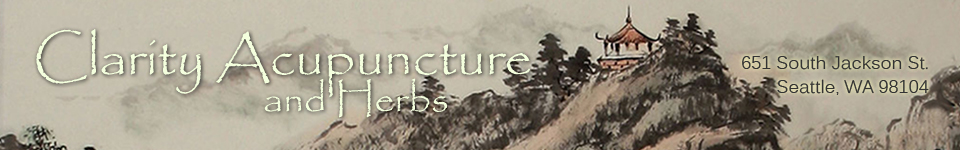
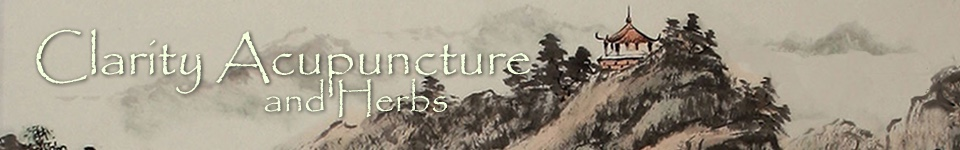
Post-moving updates to site.

Changed region(s): [[0.75, 0.3467, 0.9688, 0.48], [0.7812, 0.5067, 0.9688, 0.64]]

diff --git a/www/index.html b/www/index.html
@@ -1,20 +1,21 @@
 <!DOCTYPE html>
 <html lang="en">
+
 <head>
-<meta http-equiv="Content-Type" content="text/html; charset=utf-8" />
-<title>Clarity Acupuncture</title>
-<link rel="stylesheet" type="text/css" href="clarity.css" />
-<link rel='stylesheet' type='text/css' href='http://fonts.googleapis.com/css?family=Ubuntu:regular,bold' />
-<link rel='stylesheet' type='text/css' href='http://fonts.googleapis.com/css?family=Vollkorn:regular,italic,bold' />
-<link rel="shortcut icon" type="image/vnd.microsoft.icon" href="favicon.ico" />
-<!--[if IE]><script src="http://html5shiv.googlecode.com/svn/trunk/html5.js"></script><![endif]-->
-<!--[if lt IE 9]><script src="http://ie7-js.googlecode.com/svn/version/2.1(beta4)/IE9.js"></script><![endif]-->
+    <meta http-equiv="Content-Type" content="text/html; charset=utf-8" />
+    <title>Clarity Acupuncture</title>
+    <link rel="stylesheet" type="text/css" href="clarity.css" />
+    <link rel='stylesheet' type='text/css' href='http://fonts.googleapis.com/css?family=Ubuntu:regular,bold' />
+    <link rel='stylesheet' type='text/css' href='http://fonts.googleapis.com/css?family=Vollkorn:regular,italic,bold' />
+    <link rel="shortcut icon" type="image/vnd.microsoft.icon" href="favicon.ico" />
+    <!--[if IE]><script src="http://html5shiv.googlecode.com/svn/trunk/html5.js"></script><![endif]-->
+    <!--[if lt IE 9]><script src="http://ie7-js.googlecode.com/svn/version/2.1(beta4)/IE9.js"></script><![endif]-->
 </head>
 
 <body>
-<!-- Appointy Schedule Pop-Up --> 
-<script type="text/javascript">
-	var appointy = 'catbwanglac';
+    <!-- Appointy Schedule Pop-Up -->
+    <script type="text/javascript">
+        var appointy = 'catbwanglac';
 	var appointyHeight = '700';
 	var appointyWidth = '900';
 	var ShowSchedulemeImg = true;
@@ -26,49 +27,53 @@
 	var ScheduleMePosition = 'right';  // right, left
 	// You can also call function ShowAppointyInOverlay() onclick of any tag. 
 	// e.g. <a href="javascript:void(0)" onclick="ShowAppointyInOverlay();">Schedule with us</a>
-</script> 
-<script type="text/javascript" src="http://static.online-scheduling-software.com/widget/js/appointyOverlayGadget.js"></script> 
-<!-- End Appointy Schedule Pop-Up -->
-<div id="main-container">
-  <div id="header"> <span class="rndimgcnr" style="background-image:url(images/header4.jpg)" > <a href="index.html"><img src="images/header4.jpg" alt="Clarity Acupuncture and Herbs"></a></span> </div>
-  <div id="navigation">
-    <div class="rollover" id="home-over"> <a href="index.html">Home</a></div>
-    <div class="rollover" id="about"> <a href="about.html">About</a></div>
-    <div class="rollover" id="services"> <a href="services.html">Services</a></div>
-    <div class="rollover" id="herbs"> <a href="herbs.html">Herbs</a></div>
-    <div class="rollover" id="faq"> <a href="faq.html">FAQ</a></div>
-    <div class="rollover" id="schedule"> <a href="schedule.html">Schedule</a></div>
-    <div class="rollover" id="contact"> <a href="contact.html">Contact</a></div>
-    <div class="rollover" id="blog"> <a href="blog.html">Blog</a></div>
-  </div>
-  <div id="container">
-    <div id="side-bar-container">
-      <div id="left-bar-1"> 
-        <SCRIPT TYPE = "text/javascript">
-			var randpic = new Array ("images/rnd/ht-1.jpg", "images/rnd/ht-2.jpg", "images/rnd/ht-3.jpg", "images/rnd/ht-4.jpg", "images/rnd/ht-5.jpg", "images/rnd/ht-6.jpg");
+    </script>
+    <script type="text/javascript" src="http://static.online-scheduling-software.com/widget/js/appointyOverlayGadget.js"></script>
+    <!-- End Appointy Schedule Pop-Up -->
+    <div id="main-container">
+        <div id="header"> <span class="rndimgcnr" style="background-image:url(images/header4.jpg)"> <a href="index.html"><img src="images/header4.jpg" alt="Clarity Acupuncture and Herbs"></a></span>            </div>
+        <div id="navigation">
+            <div class="rollover" id="home-over"> <a href="index.html">Home</a></div>
+            <div class="rollover" id="about"> <a href="about.html">About</a></div>
+            <div class="rollover" id="services"> <a href="services.html">Services</a></div>
+            <div class="rollover" id="herbs"> <a href="herbs.html">Herbs</a></div>
+            <div class="rollover" id="faq"> <a href="faq.html">FAQ</a></div>
+            <div class="rollover" id="schedule"> <a href="schedule.html">Schedule</a></div>
+            <div class="rollover" id="contact"> <a href="contact.html">Contact</a></div>
+            <div class="rollover" id="blog"> <a href="blog.html">Blog</a></div>
+        </div>
+        <div id="container">
+            <div id="side-bar-container">
+                <div id="left-bar-1">
+                    <SCRIPT TYPE="text/javascript">
+                        var randpic = new Array ("images/rnd/ht-1.jpg", "images/rnd/ht-2.jpg", "images/rnd/ht-3.jpg", "images/rnd/ht-4.jpg", "images/rnd/ht-5.jpg", "images/rnd/ht-6.jpg");
 			var randnum = Math.floor(Math.random() * 6);
 			document.write("<img src='" + randpic[randnum] + "'>")
-		</SCRIPT> 
-      </div>
-      <div id="left-bar-2"><a href="javascript:void(0)" onclick="ShowAppointyInOverlay();"><img src="http://appointy.com/Images/scheduleme.png" alt="" border="0" /></a></div>
-      <div id="left-bar-3"> 
-        <SCRIPT TYPE = "text/javascript">
-			var randpic = new Array ("images/rnd1/r-img-1.jpg", "images/rnd1/r-img-2.jpg", "images/rnd1/r-img-3.jpg", "images/rnd1/r-img-4.jpg");
+                    </SCRIPT>
+                </div>
+                <div id="left-bar-2">
+                    <a href="javascript:void(0)" onclick="ShowAppointyInOverlay();"><img src="http://appointy.com/Images/scheduleme.png" alt="" border="0" /></a>
+                </div>
+                <div id="left-bar-3">
+                    <SCRIPT TYPE="text/javascript">
+                        var randpic = new Array ("images/rnd1/r-img-1.jpg", "images/rnd1/r-img-2.jpg", "images/rnd1/r-img-3.jpg", "images/rnd1/r-img-4.jpg");
 			var randnum = Math.floor(Math.random() * 4);
 			document.write("<img src='" + randpic[randnum] + "'>")
-		</SCRIPT> 
-      </div>
+                    </SCRIPT>
+                </div>
+            </div>
+            <div id="content">
+                <p>Clarity Acupuncture and Herbs is fully owned and operated by Catherine Wang, L.Ac., MSTOM, EAMP. Recently
+                    relocated to 2711 East Madison St., Suite 215 in the Madison Valley neighborhood of Seattle. Catherine provides acupuncture
+                    and herbs to men, women, and children of the Greater Seattle Area.</p>
+                <p><img src="images/office.jpg"></p>
+            </div>
+        </div>
+        <div id="footer">
+            <p class="left">© Copyright 2016 - Clarity Acupuncture</p>
+            <p class="right">site by ShilkyDesigns</p>
+        </div>
     </div>
-    <div id="content">  
-      <p>Clarity Acupuncture and Herbs is fully owned and operated by Catherine Wang, L.Ac., MSTOM, EAMP. Based in the renowned Chinese Herbal Pharmacy - Kue Hing, located in the heart of International District in Seattle, Catherine provides acupuncture and herbs to men, women, and children of the Greater Seattle Area. <br>
-</p>
-      <p><img src="images/office.jpg"></p>
-    </div>
-  </div>
-  <div id="footer">
-    <p class="left">© Copyright 2013 - Clarity Acupuncture</p>
-    <p class="right">site by ShilkyDesigns</p>
-  </div>
-</div>
 </body>
+
 </html>

diff --git a/www/herbs.html b/www/herbs.html
@@ -62,32 +62,11 @@
     <div id="content">
       <h2>Herbs</h2>
       
-      <p>Clarity Acupuncture and Herbs is based out of the most established herbal pharmacy in Seattle, Kue Hing Co. Working with Vincent Chiu, Master Herbalist, herbal formulas are prescribed and assembled according to the needs of each individual. We provide loose herbs, major patent formulas, as well as Tai Li Wang prepared formula.</p>
-      
-      <h3>Tai Li Wang:</h3>
-      <p><img src="images/tlw2.jpg" width="180" align="right" style="margin:0px 15px 5px 20px"></p>
-	  <p>Passed on in secrecy for thousands of years, Tai Li Wang is a traditional Chinese herbal formula created during the Warring States Period (475-221 B.C.) This formula was originally intended to be passed along the empirical lineage but was chosen to be omitted from the mass printed editions of the famous Chinese medical text, the Huang Di Nei Jing. The ingredients and ratios of this formula were not formally released to the public until the year 1857. Since then, Tai Li Wang has been received by the general public with great success by resolving many mysterious and idiopathic diseases. In 1992, this formula received approval from the Department of Heath of China to distribute Tai Li Wang as a health tonic for mass consumption.  
-</p>
-      <p>Currently, Kue Hing is the only distributer of this formula in the United States. Tai Li Wang promotes health and longevity by addressing the root of disease through the ancient wisdom of Traditional Chinese Medicine with the modern standards of organic food production.</p><br>
-      
-      <h3>Benefits of Tai Li Wang</h3>      
-      <b>Detoxification:</b><br>
-      <p><img src="images/tlw1.jpg"  align="right" style="margin:5px 5px 5px 20px"></p>
-<p>Many toxins are produced during metabolism. If accumulated and not excreted accordingly, it will cause toxic reactions affecting your health. Tai Li Wang works by excreting your body's toxins from the blood level – decreasing blood viscosity and blood lipids, softening blood vessels, and improving circulation.
-</p>
-      <p><b>Maintaining Cell Nutrition:</b><br>
-Tai Li Wang contains dozens of essential nutrients that are important for healthy cell growth and maintenance. We include herbs that are rich in germanium, magnesium, strontium, lithium, and other essential trace elements to boost your body's immune system, regulate your endocrine system, and elongate your cell life for an anti-aging effect.
-</p>
-      <p><b>Restore Cell Function:</b><br>
-When cells are malnourished or have sustained impact from toxins, cell structure becomes compromised and consequently less effective in their performance: compromising vitality, regenerative function and efficiency. With Tai Li Wang's distinct herbal formula, your cells can be restored to its healthiest state.
-</p>
-      <p><b>Balance Hormones and Endocrine System:</b><br> 
-As Tai Li Wang helps you to detoxify and achieve peak levels of nutrition and cell function, your body will gradually have healthier hormone equilibrium, allowing balance of mood, metabolism and alleviation of body discomforts.
-</p>
+      <p>Herbal formulas are prescribed and assembled according to the needs of each individual. We provide loose herbs, major patent formulas, as well as other medicinal sundries.</p>
     </div>
   </div>
   <div id="footer">
-    <p class="left">© Copyright 2013 - Clarity Acupuncture</p>
+    <p class="left">© Copyright 2016 - Clarity Acupuncture</p>
     <p class="right">site by ShilkyDesigns</p>
   </div>
 </div>

diff --git a/www/about.html b/www/about.html
@@ -65,13 +65,13 @@
       <p>As a Taiwanese-American growing up in central New Jersey, Catherine was surrounded by a rich Chinese culture. Her acupuncturist mother often used Chinese herbal remedies and food therapies to cure simple ailments from common colds to PMS. Even though Catherine's life was so full of this traditional medicine from a young age, she decided to go into conventional Western Medicine during her time in undergraduate school at Rutgers University, earning a Bachelor's Degree in Cell Biology and Neuroscience and working at a major pharmaceutical company. After overcoming health issues such as a major spinal compression, a borderline cancer diagnosis, lactose intolerance, and severe eczema with acupuncture and Chinese herbal medicine, Catherine finally decided on a path of East Asian Medicine in order to fuse her knowledge of Western Conventional Medicine and East Asian Medicine.</p>
       <p><img src="images/moxa.jpg"  align="left" style="margin:15px 20px 5px 0px"></p>
       <p>In 2007, Catherine entered Pacific College of Oriental Medicine in Manhattan, New York City to start her (re)education. Most of the ideas that were previously taught by the Western Medicine standpoint had to be relearned from a different paradigm and her old ideas of health and diet were unearthed. Catherine finished her MSTOM degree (Master's in Science in Traditional Oriental Medicine) in a different branch of Pacific College – San Diego, California, acquainting experiences from Community and Seniors' clinics, field work with war veterans, as well as the world renown San Diego Hospice. After graduating in 2011, Catherine continued her education - first at Beijing Traditional Chinese Medicine Hospital.</p>
-      <p>Currently, Catherine is an NCCAOM Board certified, Washington State licensed acupuncturist. She also is a member of the Washington East Asian Medicine Association (WEAMA). Since 2012, she has been studying her apprenticeship with Vincent Chiu, one of the most established Chinese medicine herbalists in the Greater Seattle area.  Mr. Chiu has 45 years of experience in Chinese herbs, specializing in dermatology, fertility, gynecology, and other ailments which may be deemed as difficult to treat by Western medical standards.</p>
+      <p>Currently, Catherine is an NCCAOM Board certified, Washington State licensed acupuncturist. She also is a member of the Washington East Asian Medicine Association (WEAMA). From 2012 to 2015, Catherine apprenticed under Vincent Chiu, one of the most established Chinese medicine herbalists in the Greater Seattle area. Mr. Chiu has 50 years of experience in Chinese herbs, specializing in dermatology, fertility, gynecology, and other ailments which may be deemed as difficult to treat by Western medical standards.</p>
       <p>With Acupuncture, Catherine is experienced in the treatment of pain, gynecology, and geriatrics with a primary interest in psychosomatic diseases such as depression, insomnia, fibromyalgia, and other diseases of this nature.</p>
       <p>Catherine's mission is to focus on the body's ability to promote its own healing process. With the most suitable health regimen for each person, one can allow the body to prevent or fully recover from most diseases.</p>
     </div>
   </div>
   <div id="footer">
-    <p class="left">© Copyright 2013 - Clarity Acupuncture</p>
+    <p class="left">© Copyright 2016 - Clarity Acupuncture</p>
     <p class="right">site by ShilkyDesigns</p>
   </div>
 </div>

diff --git a/www/contact.html b/www/contact.html
@@ -62,13 +62,14 @@
     <div id="content">
       <h2>Contact Us</h2>
       <p>
-        <iframe width="600" height="400" frameborder="0" scrolling="no" marginheight="0" marginwidth="0" src="https://maps.google.com/maps?f=q&amp;source=s_q&amp;hl=en&amp;geocode=&amp;q=651+South+Jackson+St++Seattle,+Washington+98104&amp;aq=&amp;sll=40.318364,-74.424189&amp;sspn=0.136382,0.338173&amp;ie=UTF8&amp;hq=&amp;hnear=651+S+Jackson+St,+Seattle,+Washington+98104&amp;ll=47.599566,-122.321777&amp;spn=0.030154,0.084543&amp;t=m&amp;z=14&amp;output=embed"></iframe>
+        <iframe src="https://www.google.com/maps/embed?pb=!1m18!1m12!1m3!1d2689.172189721287!2d-122.29942547121318!3d47.622784051408814!2m3!1f0!2f0!3f0!3m2!1i1024!2i768!4f13.1!3m3!1m2!1s0x54906b2b7156e511%3A0x96fdd40b7caa3abf!2s2711+E+Madison+St+%23215%2C+Seattle%2C+WA+98112!5e0!3m2!1sen!2sus!4v1454286503542" width="600" height="400" frameborder="0" style="border:0" allowfullscreen></iframe>
         <br />
-        <small><a href="https://maps.google.com/maps?f=q&amp;source=embed&amp;hl=en&amp;geocode=&amp;q=651+South+Jackson+St++Seattle,+Washington+98104&amp;aq=&amp;sll=40.318364,-74.424189&amp;sspn=0.136382,0.338173&amp;ie=UTF8&amp;hq=&amp;hnear=651+S+Jackson+St,+Seattle,+Washington+98104&amp;ll=47.599566,-122.321777&amp;spn=0.030154,0.084543&amp;t=m&amp;z=14" style="color:#0000FF;text-align:left">View Larger Map</a></small></p>
+        <small><a href="https://goo.gl/maps/G6mqcChwUSB2" target="new" style="color:#0000FF;text-align:left">View Larger Map</a></small></p>
       <h3>Office Location</h3>
       <p>Clarity Acupuncture and Herbs<br>
-        651 South Jackson Street <br>
-        Seattle, WA 98104 </p>
+        2711 East Madison St.<br>
+        Suite 215<br>
+        Seattle, WA 98112 </p>
       <p>Call Catherine Wang<br>
         (425) 686-9580</p><br>
 
@@ -97,7 +98,7 @@
     </div>
   </div>
   <div id="footer">
-    <p class="left">© Copyright 2013 - Clarity Acupuncture</p>
+    <p class="left">© Copyright 2016 - Clarity Acupuncture</p>
     <p class="right">site by ShilkyDesigns</p>
   </div>
 </div>

diff --git a/www/services.html b/www/services.html
@@ -78,16 +78,30 @@
       <h3>Day Of Payments (CC, Check, Cash)</h3>
       <table width="90%" border="1" bordercolor="#CCCCCC" cellspacing="0" rules="rows" frame="box">
         <tr>
+          <td>10-Minute Consultation:</td>
+          <td>Free</td>
+        </tr>
+        <tr>
+          <td>30-Minute Consultation:</td>
+          <td>$20</td>
+        </tr>
+        <tr>
+          <td>Ear Acupuncture (Only):</td>
+          <td>$25</td>
+        </tr>
+        <tr>
           <td width="40%">First Treatment (All-Inclusive):</td>
           <td width="60%">$120</td>
         </tr>
         <tr>
-          <td>Ear Acupuncture (Only):</td>
-          <td>$20</td>
-        </tr>
-        <tr>
           <td>Follow-up (All-Inclusive):</td>
           <td>$80</td>
+        </tr>
+        <tr>
+          <td>15-Minute Herbal Consultation<br>
+                w/ One Cycle of Raw Herbs (3 packets)</td>
+          <td>$50</td>
+        </tr>
       </table>
       <br>
       <h3>Discounted (Students, Seniors, Low Income)</h3>
@@ -290,7 +304,7 @@
     </div>
   </div>
   <div id="footer">
-    <p class="left">© Copyright 2013 - Clarity Acupuncture</p>
+    <p class="left">© Copyright 2016 - Clarity Acupuncture</p>
     <p class="right">site by ShilkyDesigns</p>
   </div>
 </div>

diff --git a/www/faq.html b/www/faq.html
@@ -90,13 +90,13 @@ function toggleElement(id)
         <p><a href="javascript:toggleElement('faq4')">4) Why Do I Need East Asian Medicine?</a>
         <div id="faq4" style="display:none">Acupuncture and herbs can be used as an alternative or a conjunctive modality for conventional Western Medicine. Many diseases such as depression, insomnia, ADD/ADHD, fibromyalgia, high blood pressure, allergies and so on can be alleviated by East Asian Medicine. It is a great option for those who are interested in a natural way of medicine.</div>
         <p><a href="javascript:toggleElement('faq5')">5) Do you accept insurance?</a>
-        <div id="faq5" style="display:none">We accept Premera, Lifewise, Aetna, and Cigna.</div>
+        <div id="faq5" style="display:none">We accept Aetna, Cigna, Lifewise, Premera Blue Cross, Regence, Blue Cross Blue Shield, First Choice, as well as Personal Injury Claims (PIP).</div>
         </p>
       </div>
     </div>
   </div>
   <div id="footer">
-    <p class="left">© Copyright 2013 - Clarity Acupuncture</p>
+    <p class="left">© Copyright 2016 - Clarity Acupuncture</p>
     <p class="right">site by ShilkyDesigns</p>
   </div>
 </div>

diff --git a/www/blog.html b/www/blog.html
@@ -78,7 +78,7 @@
     </div>
   </div>
   <div id="footer">
-    <p class="left">© Copyright 2013 - Clarity Acupuncture</p>
+    <p class="left">© Copyright 2016 - Clarity Acupuncture</p>
     <p class="right">site by ShilkyDesigns</p>
   </div>
 </div>

diff --git a/www/schedule.html b/www/schedule.html
@@ -52,7 +52,7 @@
     </div>
   </div>
   <div id="footer">
-    <p class="left">© Copyright 2013 - Clarity Acupuncture</p>
+    <p class="left">© Copyright 2016 - Clarity Acupuncture</p>
     <p class="right">site by ShilkyDesigns</p>
   </div>
 </div>

diff --git a/www/FormToEmail.php b/www/FormToEmail.php
@@ -275,7 +275,7 @@ mail($my_email,$subject,$message,$headers);
     </div>
   </div>
   <div id="footer">
-    <p class="left">© Copyright 2013 - Clarity Acupuncture</p>
+    <p class="left">© Copyright 2016 - Clarity Acupuncture</p>
     <p class="right">site by ShilkyDesigns</p>
   </div>
 </div>
